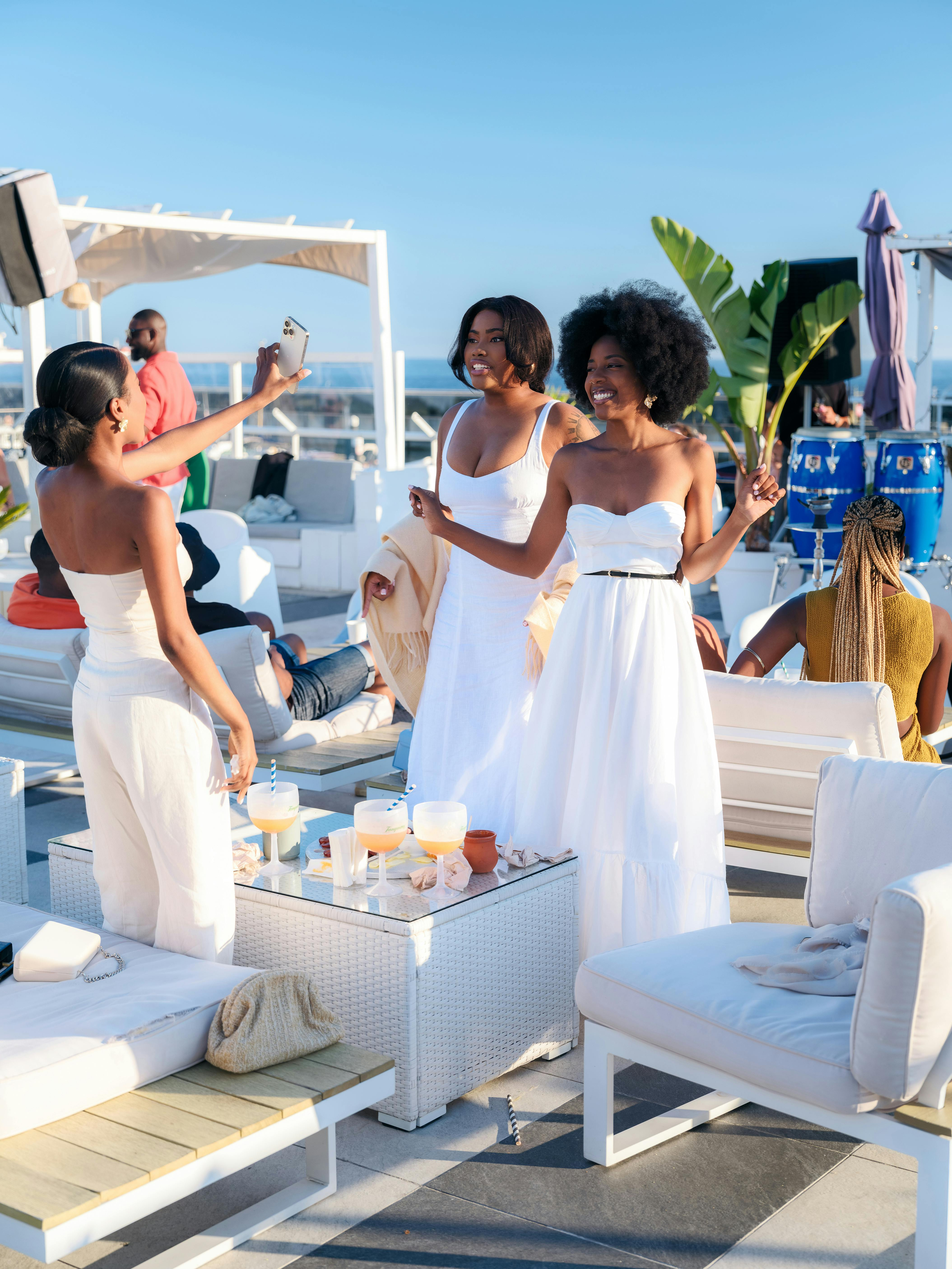
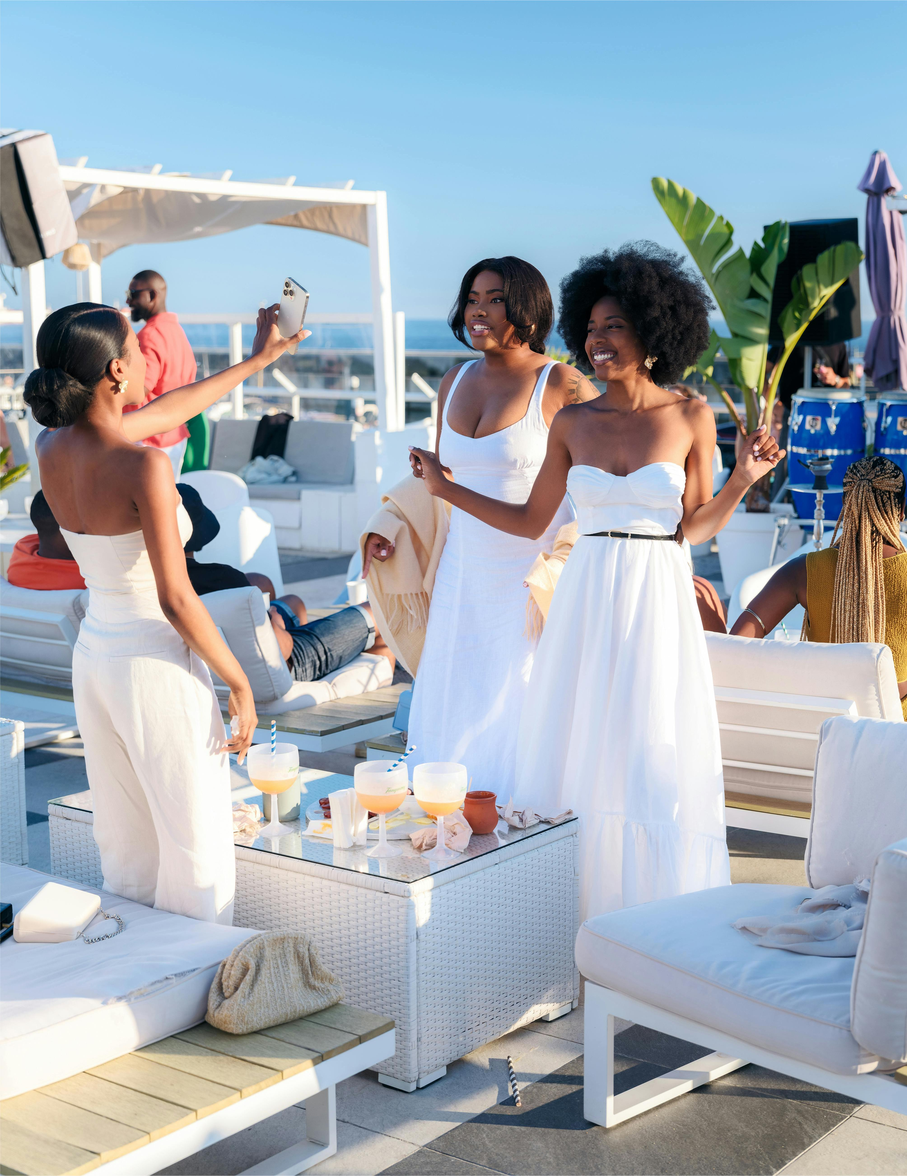
Update photos

diff --git a/style.css b/style.css
@@ -33,7 +33,7 @@ body {
   border-radius: 50%;
   width: 100px; /* Adjust size as needed */
   height: 100px; /* Adjust size as needed */
-  animation: spin 0.5s linear infinite;
+  animation: spin 0.7s linear infinite;
   position: relative;
 }
 
@@ -172,8 +172,9 @@ main {
 }
 .photo > img {
   height: 40vh;
-  background-position: center;
-  background-size: cover;
+  /* background-position: center; */
+  /* background-size: cover; */
+  /* background-position-y: -30px; */
   background-repeat: no-repeat;
   object-fit: cover;
   cursor: pointer;
@@ -182,6 +183,7 @@ main {
 .caption {
   text-align: center;
   font-family: 'Courier New', Courier, monospace;
+  font-size: 13px;
 }
 .caption p {
   display: none;

diff --git a/index.html b/index.html
@@ -90,7 +90,7 @@
         </div>
 
         <div class="photo">
-          <img src="./img/events.jpg" alt="" />
+          <img src="./img/lifestyle-photograph.jpg" alt="" />
           <div class="caption">
             <h3>Moments to Remember: Capturing the Essence of Every Event</h3>
             <p>
